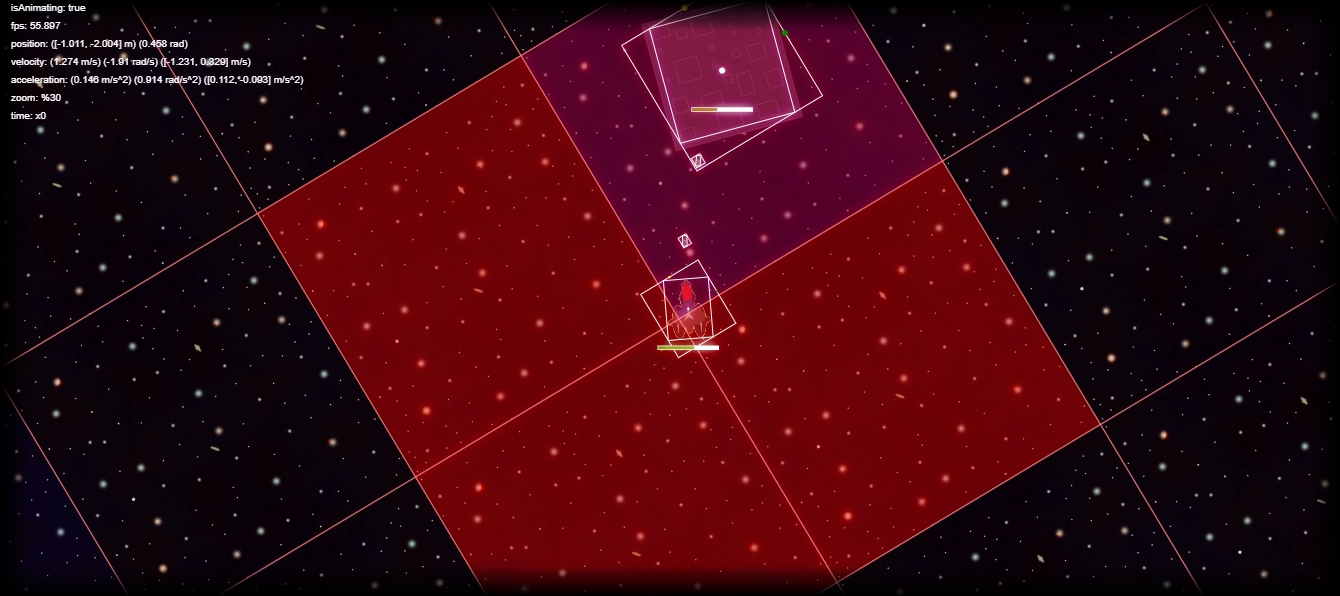
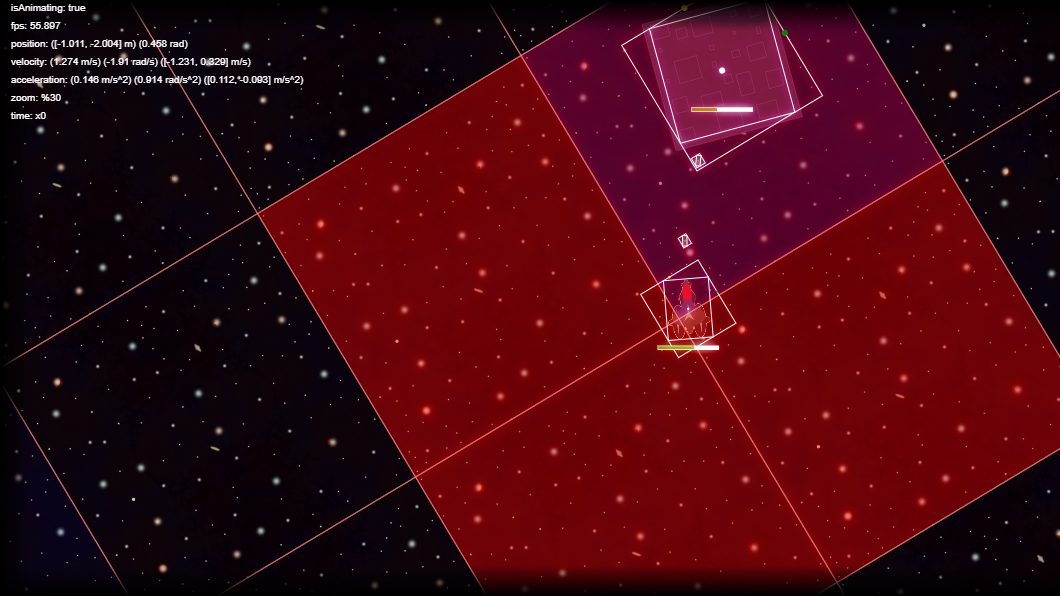
Deployed at 10/11/2025 16:41:14.01

diff --git a/out/public/main.js b/out/public/main.js
@@ -5166,6 +5166,122 @@ ${error}`);
     }
   });
 
+  // src/HUD.ts
+  var HUDItem, defaultHUDTextItemOptions, HUDTextItem, HUD;
+  var init_HUD = __esm({
+    "src/HUD.ts"() {
+      HUDItem = class {
+        /**
+         * 
+         * @param normalizedScreenPosition A pair of values, each between -1 and 1, indicating the position on the screen relative to the center along either axis respectively.
+         */
+        constructor(normalizedScreenPosition = { x: 0, y: 0 }) {
+          this.normalizedScreenPosition = normalizedScreenPosition;
+          this.setNormalizedScreenPosition(normalizedScreenPosition);
+        }
+        static clipNormalizedScreenPosition(normalizedScreenPosition) {
+          return {
+            x: Math.max(-1, Math.min(1, normalizedScreenPosition.x)),
+            y: Math.max(-1, Math.min(1, normalizedScreenPosition.y))
+          };
+        }
+        setNormalizedScreenPosition(normalizedScreenPosition) {
+          this.normalizedScreenPosition = HUDTextItem.clipNormalizedScreenPosition(normalizedScreenPosition);
+        }
+        getNormalizedScreenPosition() {
+          return this.normalizedScreenPosition;
+        }
+        getScreenPosition(renderer) {
+          const width2 = renderer.getWidth();
+          const height2 = renderer.getHeight();
+          return {
+            x: (this.normalizedScreenPosition.x + 1) * width2 / 2,
+            y: (this.normalizedScreenPosition.y + 1) * height2 / 2
+          };
+        }
+      };
+      defaultHUDTextItemOptions = {
+        font: "28px DigitalFont",
+        color: "#288bed",
+        textAlign: "left",
+        textBaseline: "middle",
+        opacity: 0.75
+      };
+      HUDTextItem = class extends HUDItem {
+        /**
+         * 
+         * @param normalizedScreenPosition A pair of values, each between -1 and 1, indicating the position on the screen relative to the center along either axis respectively.
+         * @param resolveValue 
+         * @param font 
+         * @param color 
+         */
+        constructor(normalizedScreenPosition = { x: 0, y: 0 }, resolveValue = () => "", options = defaultHUDTextItemOptions) {
+          super(normalizedScreenPosition);
+          this.resolveValue = resolveValue;
+          this.options = options;
+          this.options = { ...defaultHUDTextItemOptions, ...options };
+        }
+        render(renderer) {
+          const ctx = renderer.renderContext;
+          const text = String(this.resolveValue());
+          const position = this.getScreenPosition(renderer);
+          const { font, color: color2, textAlign, textBaseline, opacity } = this.options;
+          ctx.save();
+          if (font)
+            ctx.font = font;
+          if (color2)
+            ctx.fillStyle = color2;
+          if (opacity !== void 0)
+            ctx.globalAlpha = opacity;
+          if (textAlign)
+            ctx.textAlign = textAlign;
+          if (textBaseline)
+            ctx.textBaseline = textBaseline;
+          if (this.options.renderCallback) {
+            this.options.renderCallback(renderer, this);
+          }
+          ctx.fillText(text, position.x, position.y);
+          ctx.fillStyle = "red";
+          ctx.fillText(".", position.x, position.y);
+          ctx.restore();
+        }
+      };
+      HUD = class _HUD {
+        constructor(items = []) {
+          this.items = items;
+        }
+        static createDefaultHUD(positionComponent, velocityComponent) {
+          return new _HUD([
+            new HUDTextItem(
+              { x: 0.98, y: 0.95 },
+              () => `${positionComponent.data.rotation.toFixed(2)} RAD`,
+              { textAlign: "right" }
+            ),
+            new HUDTextItem(
+              { x: 0.98, y: 0.88 },
+              () => `${Math.hypot(...Object.values(velocityComponent.data.velocity)).toFixed(2)} M/S`,
+              { textAlign: "right" }
+            )
+          ]);
+        }
+        addItem(item) {
+          this.items.push(item);
+        }
+        removeItem(item) {
+          const index = this.items.indexOf(item);
+          if (index !== -1) {
+            this.items.splice(index, 1);
+          }
+        }
+        render(renderer) {
+          for (const item of this.items) {
+            item.render(renderer);
+          }
+        }
+      };
+    }
+  });
+
   // src/AsteroidJourney.ts
   var AsteroidJourney_exports = {};
   __export(AsteroidJourney_exports, {
@@ -5195,14 +5311,18 @@ ${error}`);
         }
       }
     );
+    const PPM = 1024;
+    const engine = new FluidEngine(fluidInternal.core(), PPM);
+    const worldContext = new WorldContext(engine, 1.024, 0.1, (wC, cI, cS) => generateChunk(wC, cI, cS, engine));
+    const clientContext = new ClientContext(engine, worldContext, renderer);
+    const controlBinder = new ControlBinder().registerDefaultListeners();
+    clientContext.setZoomLevel(20);
+    let viewportPosition = { x: -renderer.getWidth() / (2 * PPM), y: -renderer.getHeight() / (2 * PPM) };
     let renderDistance = 5;
     const CAMERA = {
       position: Position.createComponent({
-        position: {
-          x: 0,
-          y: 0
-        },
-        rotation: 0
+        position: viewportPosition,
+        rotation: -Math.PI / 2
       }),
       target: TargetPosition.createComponent({
         position: Position.createComponent({ position: Vector2.zero(), rotation: 0 }).data
@@ -5216,13 +5336,20 @@ ${error}`);
       viewport: Viewport.createComponent({}),
       resolution: VIEWPORT_RESOLUTION_COMPONENT
     };
+    const MC_POS = Position.createComponent({
+      position: { x: 0, y: 0 },
+      rotation: -Math.PI / 2
+    });
+    const MC_VEL = Velocity.createComponent(
+      {
+        velocity: { x: 0, y: 0 },
+        angular: 0
+      }
+    );
+    CAMERA.target.data.position = MC_POS.data;
     const cameraEntityId = fluidInternal.createEntityWithComponents(
       ...Object.values(CAMERA)
     );
-    const engine = new FluidEngine(fluidInternal.core(), 1024);
-    const worldContext = new WorldContext(engine, 1.024, 0.1, (wC, cI, cS) => generateChunk(wC, cI, cS, engine));
-    const clientContext = new ClientContext(engine, worldContext, renderer);
-    clientContext.setZoomLevel(20);
     const MOVEMENT_CONTROL_COMPONENT = MovementControl.createComponent({
       accelerationInput: {
         x: 0,
@@ -5231,13 +5358,16 @@ ${error}`);
       yawInput: 0
     });
     const FIRE_CONTROL_COMPONENT = FireControl.createComponent({ fireIntent: false });
-    const controlBinder = new ControlBinder().registerDefaultListeners();
     registerDefaultBindings(
       controlBinder,
       engine,
       clientContext,
       MOVEMENT_CONTROL_COMPONENT,
       FIRE_CONTROL_COMPONENT
+    );
+    const hud = HUD.createDefaultHUD(
+      MC_POS,
+      MC_VEL
     );
     const simulationPhase = new FluidSystemPhase(
       "Simulation Phase",
@@ -5268,6 +5398,7 @@ ${error}`);
           drawPauseScreen(renderContext, renderer);
           drawControlGuide(controlBinder, renderContext, renderer);
         }
+        hud.render(renderer);
       }
     );
     const sysman = fluidInternal.core().getSystemOrchestrator();
@@ -5305,11 +5436,6 @@ ${error}`);
       viewportRenderSystem,
       debugInfoDisplaySystem
     );
-    const MC_POS = Position.createComponent({
-      position: { x: 0, y: 0 },
-      rotation: -Math.PI / 2
-    });
-    CAMERA.target.data.position = MC_POS.data;
     const artilleryShell = {
       lifeTime: 5,
       damage: 15e-4,
@@ -5326,12 +5452,7 @@ ${error}`);
       const mass = 3e9 * modelScaleFactor;
       return fluidInternal.createEntityWithComponents(
         MC_POS,
-        Velocity.createComponent(
-          {
-            velocity: { x: 0, y: 0 },
-            angular: 0
-          }
-        ),
+        MC_VEL,
         Acceleration.createComponent(
           {
             acceleration: { x: 0, y: 0 },
@@ -5437,6 +5558,7 @@ ${error}`);
       init_Assets();
       init_Overlays();
       init_ControlBindings();
+      init_HUD();
     }
   });
 

diff --git a/out/public/index.html b/out/public/index.html
@@ -4,6 +4,7 @@
     <meta charset="UTF-8">
     <meta name="viewport" content="width=device-width, initial-scale=1.0">
     <title>AsteroidJourney</title>
+    <link rel="stylesheet" href="./assets/style/main.css">
 </head>
 
 <body>

diff --git a/out/public/assets/style/main.css b/out/public/assets/style/main.css
@@ -1,0 +1,6 @@
+    @font-face {
+        font-family: 'DigitalFont';
+        src: url('../font/Digital-7MonoItalic.woff2') format('woff2');
+        font-weight: bold;
+        font-style: normal;
+    }
